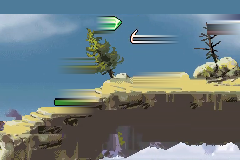
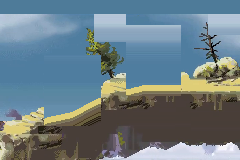
Remove recorded actor trails from guard viewport with explicit occlusion estimates

diff --git a/tools/convert_guard.py b/tools/convert_guard.py
@@ -6,11 +6,19 @@ from convert_room import extract
 p=argparse.ArgumentParser();p.add_argument('video');a=p.parse_args();out=Path(__file__).resolve().parents[1]/'assets';im=extract(a.video,145)
 actor=im.crop((137,35,178,95)).convert('RGBA');mask=Image.new('L',actor.size);ImageDraw.Draw(mask).polygon([(11,4),(22,4),(29,12),(28,20),(34,21),(33,40),(28,44),(26,55),(12,55),(13,48),(16,44),(13,40),(13,31),(5,27),(1,20),(0,10),(8,9)],fill=255);actor.putalpha(mask)
 bg=im.copy()
-for left,top,right,bottom in [(0,0,240,14),(208,0,240,35),(56,57,94,115),(134,35,179,91),(95,14,114,37)]:
+# Reconstruct occluded sky/terrain conservatively instead of retaining actor trails.
+def surface(x):
+ points=[(0,130),(24,130),(48,120),(72,115),(96,102),(120,94),(144,88),(239,88)]
+ for (x0,y0),(x1,y1) in zip(points,points[1:]):
+  if x<=x1:return round(y0+(y1-y0)*(x-x0)/(x1-x0))
+ return 88
+for left,top,right,bottom in [(0,0,240,14),(208,0,240,35),(44,55,101,126),(126,25,181,96),(94,14,126,42)]:
  for y in range(top,bottom):
-  lc=im.getpixel((max(0,left-1),max(y,14)));rc=im.getpixel((min(239,right),max(y,14)))
   for x in range(left,right):
-   w=(x-left)/max(1,right-left);bg.putpixel((x,y),tuple(round(lc[k]*(1-w)+rc[k]*w) for k in range(3)))
+   floor=surface(x)
+   if y<floor-3:color=im.getpixel((5,max(14,min(105,y))))
+   else:color=im.getpixel((195,min(159,88+max(0,y-floor))))
+   bg.putpixel((x,y),color)
 for y in range(14):
  for x in range(240):bg.putpixel((x,y),(78,123,153))
 header=(out/'room.bin').read_bytes()[:512];colors=[]
